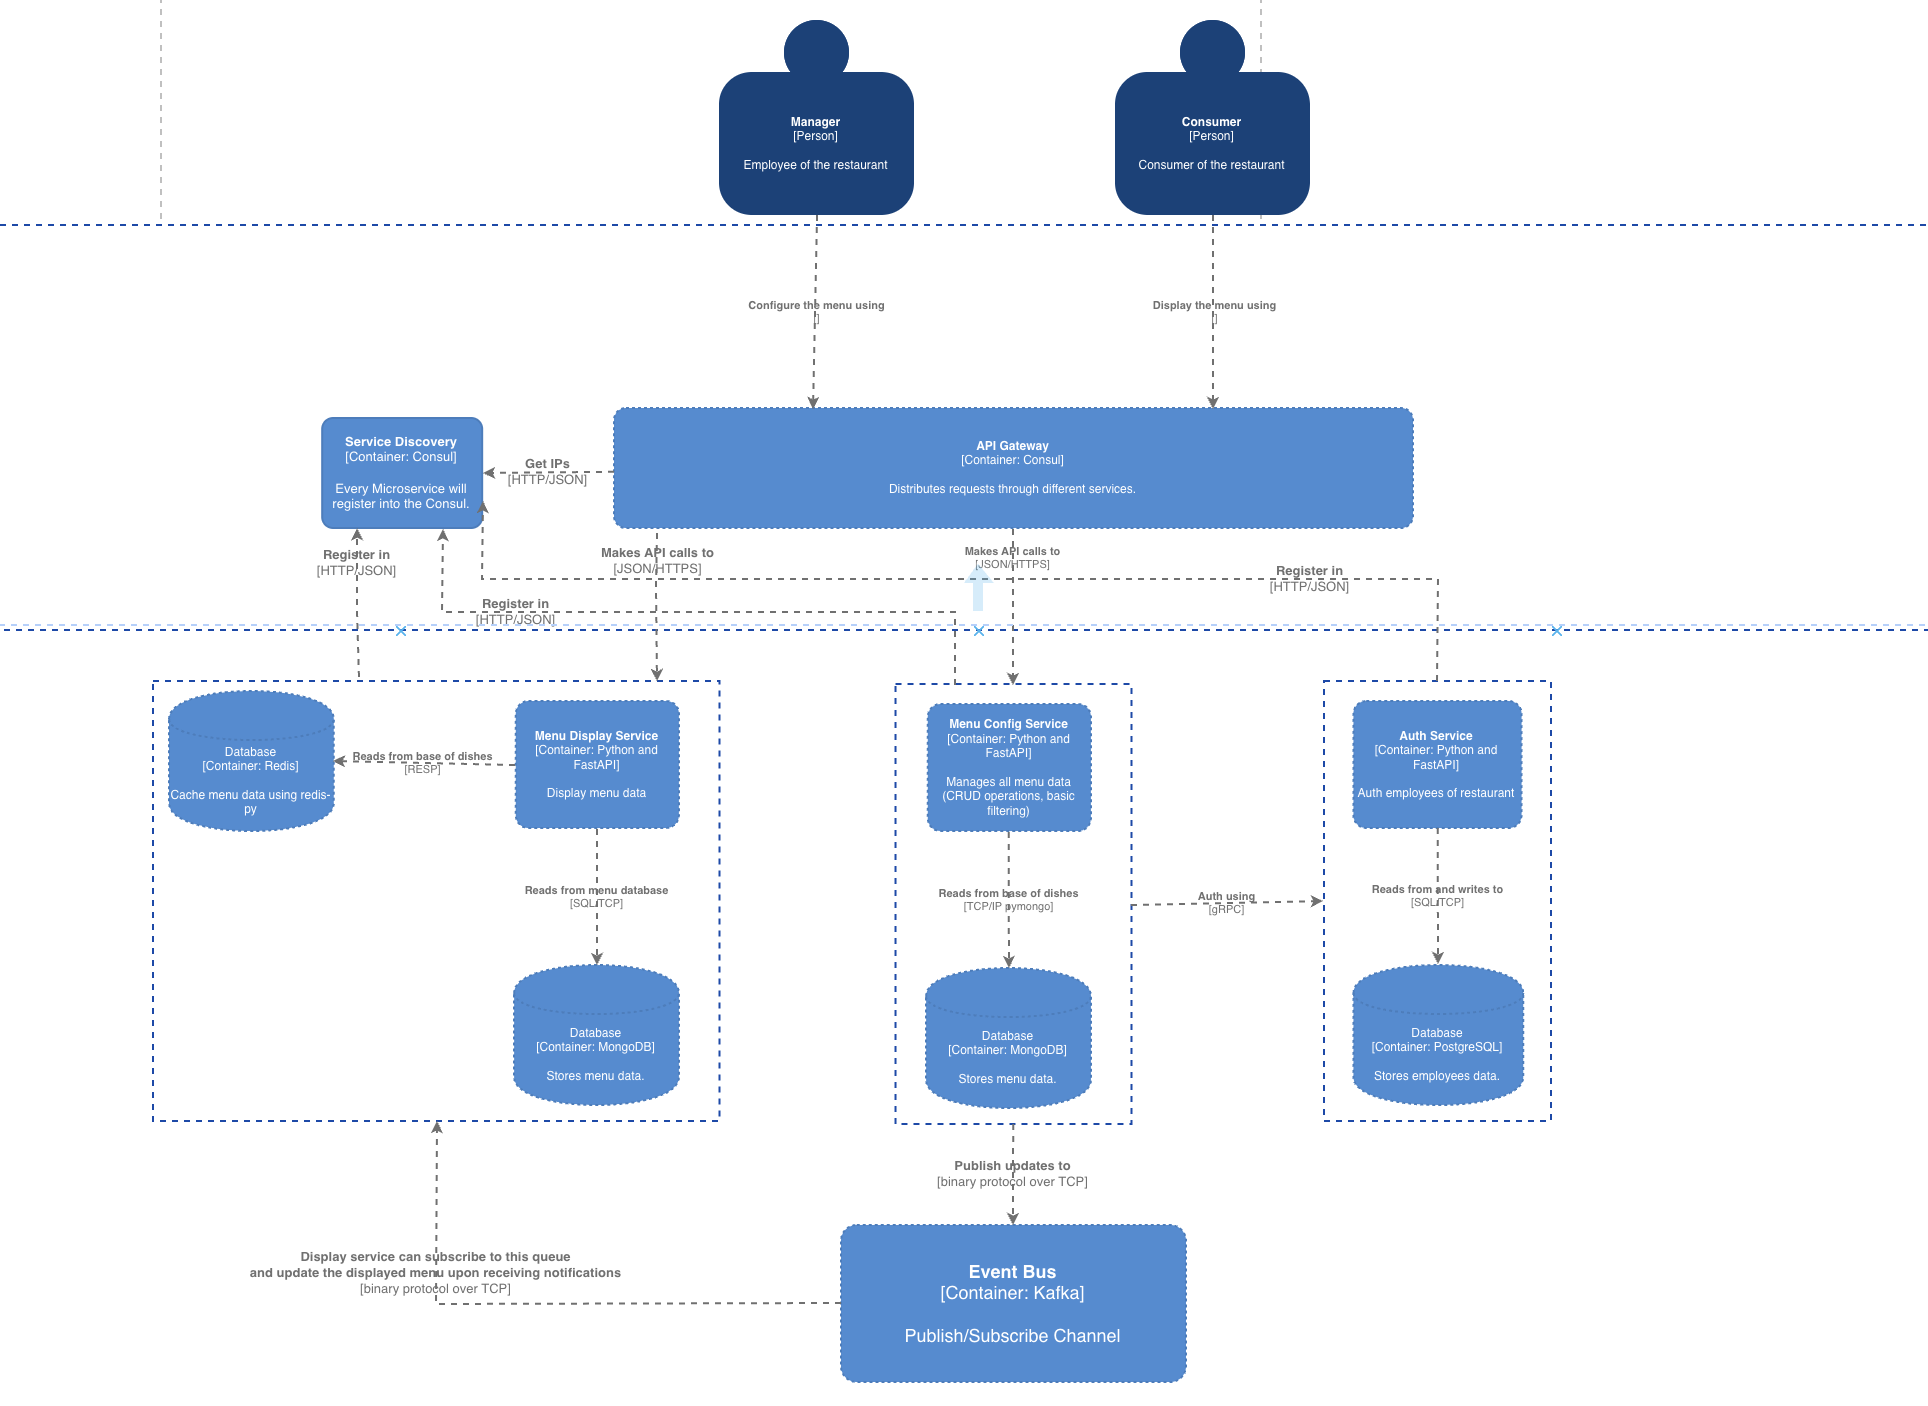
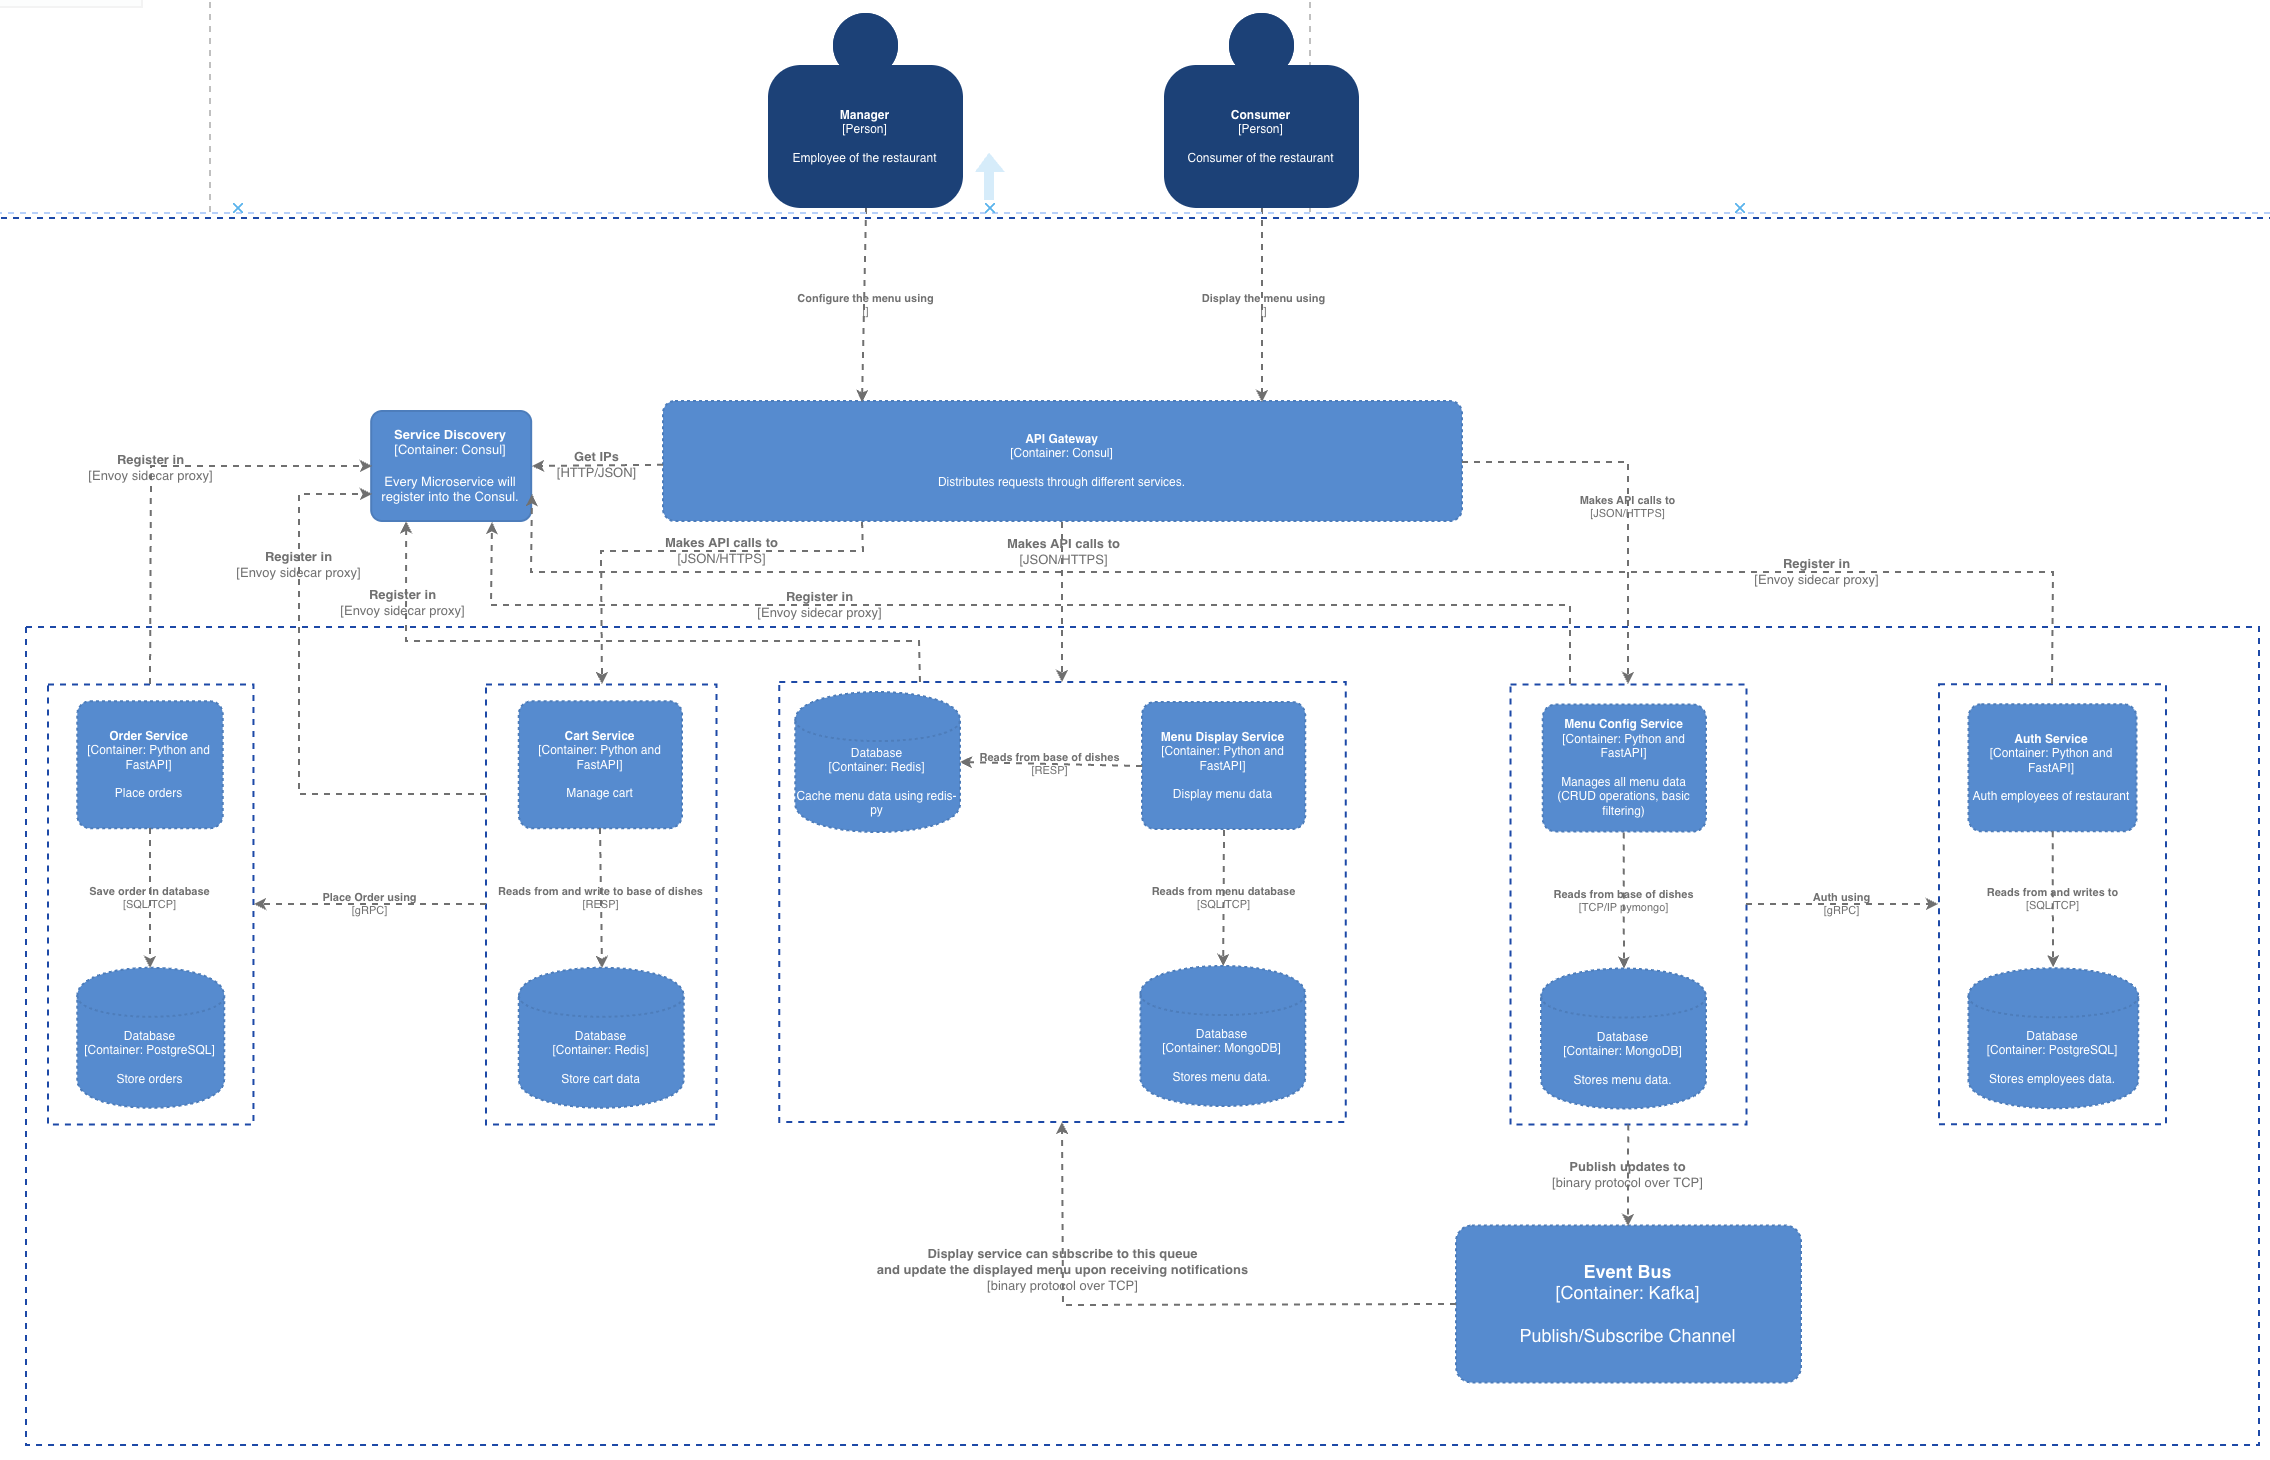
cart_service not tested

diff --git a/cart_service/main.py b/cart_service/main.py
@@ -1,0 +1,68 @@
+# Local modules
+from domain.dish.Dish import Dish, DishUpdate
+from repositories.redis import RedisRepo
+from use_cases.add_dish import add_dish
+from use_cases.delete_cart import delete_cart
+from use_cases.delete_dish import delete_dish
+from use_cases.get_cart import get_cart
+from use_cases.update_dish_qt import update_dish_qt
+
+# Third party modules
+from fastapi import FastAPI, HTTPException, Cookie, Response
+
+# Built-in modules
+import json
+import uuid
+
+app = FastAPI()
+repo = RedisRepo()
+
+@app.post("/cart/dishes/", response_model=Dish)
+async def add_dish_to_cart(dish: Dish, response: Response, session_id: str = Cookie(None)):
+    if not session_id:
+        session_id = str(uuid.uuid4())
+        response.set_cookie(key="session_id", value=session_id)
+    
+    add_dish(repo,dish,session_id)
+
+    return dish
+
+@app.get("/cart/dishes/")
+async def get_cart_dishes(session_id: str = Cookie(None)):
+    if not session_id:
+        raise HTTPException(status_code=400, detail="Session ID is required")
+
+    cart_dishes = get_cart(repo,session_id)
+    if not cart_dishes:
+        raise HTTPException(status_code=404, detail="Cart not found")
+    return {dish_id.decode(): json.loads(dish_data.decode()) for dish_id, dish_data in cart_dishes.items()}
+
+@app.put("/cart/dishes/{dish_id}", response_model=DishUpdate)
+async def update_dish_quantity(dish_id: str, dish_update: DishUpdate, session_id: str = Cookie(None)):
+    if not session_id:
+        raise HTTPException(status_code=400, detail="Session ID is required")
+    
+    result = update_dish_qt(repo,dish_update,dish_id,session_id)
+    if not result:
+       raise HTTPException(status_code=404, detail=f"Dish {dish_id} not found in cart")
+    
+    return update_dish_qt(repo,dish_update,dish_id,session_id)
+
+@app.delete("/cart/dishes/{dish_id}")
+async def remove_dish_from_cart(dish_id: str, session_id: str = Cookie(None)):
+    if not session_id:
+        raise HTTPException(status_code=400, detail="Session ID is required")
+    
+    result = delete_dish(repo,session_id,dish_id)
+
+    if not result:
+        raise HTTPException(status_code=404, detail="dish not found in cart")
+    return {"message": "dish removed"}
+
+@app.delete("/cart")
+async def clear_cart(session_id: str = Cookie(None)):
+    if not session_id:
+        raise HTTPException(status_code=400, detail="Session ID is required")
+
+    delete_cart(repo,session_id)
+    return {"message": "Cart cleared"}

diff --git a/cart_service/repositories/redis.py b/cart_service/repositories/redis.py
@@ -1,0 +1,37 @@
+# Third party modules
+import redis
+
+# Built-in modules
+import json
+
+class RedisRepo():
+    def __init__(self):
+        self.cache = redis.Redis(
+            host="127.0.0.1",
+            port="6379",
+        )
+
+    def post(self,dish,session_id):
+        cart_key = f"cart:{session_id}"
+        self.cache.hset(cart_key, dish.dish_id, json.dumps(dish.dict()))
+
+    def delete_cart(self,session_id):
+        cart_key = f"cart:{session_id}"
+        self.cache.delete(cart_key)
+
+    def delete_dish(self,session_id, dish_id):
+        cart_key = f"cart:{session_id}"
+        return self.cache.hdel(cart_key, dish_id)
+
+    def list(self,session_id):
+        cart_key = f"cart:{session_id}"
+        return self.cache.hgetall(cart_key)
+    
+    def put(self,updated_dish,dish_id,session_id):
+        cart_key = f"cart:{session_id}"
+        if not self.cache.hexists(cart_key, dish_id):
+            return False
+        
+        updated_dish = {"dish_id": dish_id, "quantity": updated_dish.quantity}
+        self.cache.hset(cart_key, dish_id, json.dumps(updated_dish))
+        return updated_dish

diff --git a/cart_service/domain/dish/Dish.py b/cart_service/domain/dish/Dish.py
@@ -1,0 +1,11 @@
+# Third party modules
+from pydantic import BaseModel, Field
+
+class Dish(BaseModel):
+    dish_id: str
+    quantity: int
+
+class DishUpdate(BaseModel):
+    dish_id: str
+    quantity: int = Field(..., gt=0, description="Quantity must be greater than 0")
+    

diff --git a/cart_service/use_cases/update_dish_qt.py b/cart_service/use_cases/update_dish_qt.py
@@ -1,0 +1,2 @@
+def update_dish_qt(repo,updated_dish,dish_id,session_id):
+    return repo.put(updated_dish,dish_id,session_id)

diff --git a/cart_service/use_cases/delete_dish.py b/cart_service/use_cases/delete_dish.py
@@ -1,0 +1,2 @@
+def delete_dish(repo,session_id, dish_id):
+    return repo.delete_dish(session_id,dish_id)

diff --git a/cart_service/use_cases/add_dish.py b/cart_service/use_cases/add_dish.py
@@ -1,0 +1,2 @@
+def add_dish(repo,dish,session_id):
+    return repo.post(dish,session_id)

diff --git a/cart_service/use_cases/delete_cart.py b/cart_service/use_cases/delete_cart.py
@@ -1,0 +1,2 @@
+def delete_cart(repo,session_id):
+    return repo.delete_cart(session_id)

diff --git a/cart_service/use_cases/get_cart.py b/cart_service/use_cases/get_cart.py
@@ -1,0 +1,2 @@
+def get_cart(repo,session_id):
+    return repo.list(session_id)

diff --git a/README.md b/README.md
@@ -4,11 +4,12 @@ Instruction for installation is located in kubernetes/readme.md<br>
 
 ## Goals and scope of project:
 This system will be created using microservices, <br>
-right now there will be only four of them:<br>
+right now there will be only five of them:<br>
 - Display Menu Service<br>
 - Config Menu Service<br>
 - Auth Service<br>
 - Cart Service<br>
+- Order Service<br>
 In the future I will fill up the project with other functionalities :)<br>
 
 ## Used technology and tools

diff --git a/cart_service/README.md b/cart_service/README.md
@@ -1,0 +1,12 @@
+# Cart Service
+Tasks of this service are:<br>
+- Displaying cart<br>
+- Adding dish to cart<br>
+- Updating ammount of dishes in cart<br>
+- Removing dish from cart<br>
+- Clearing cart<br>
+
+- Placing order using gRPC<br>
+
+During creating cart will be created individual session,<br>
+user will have possibility to click "palce order" and send contents of cart to Order Service.
